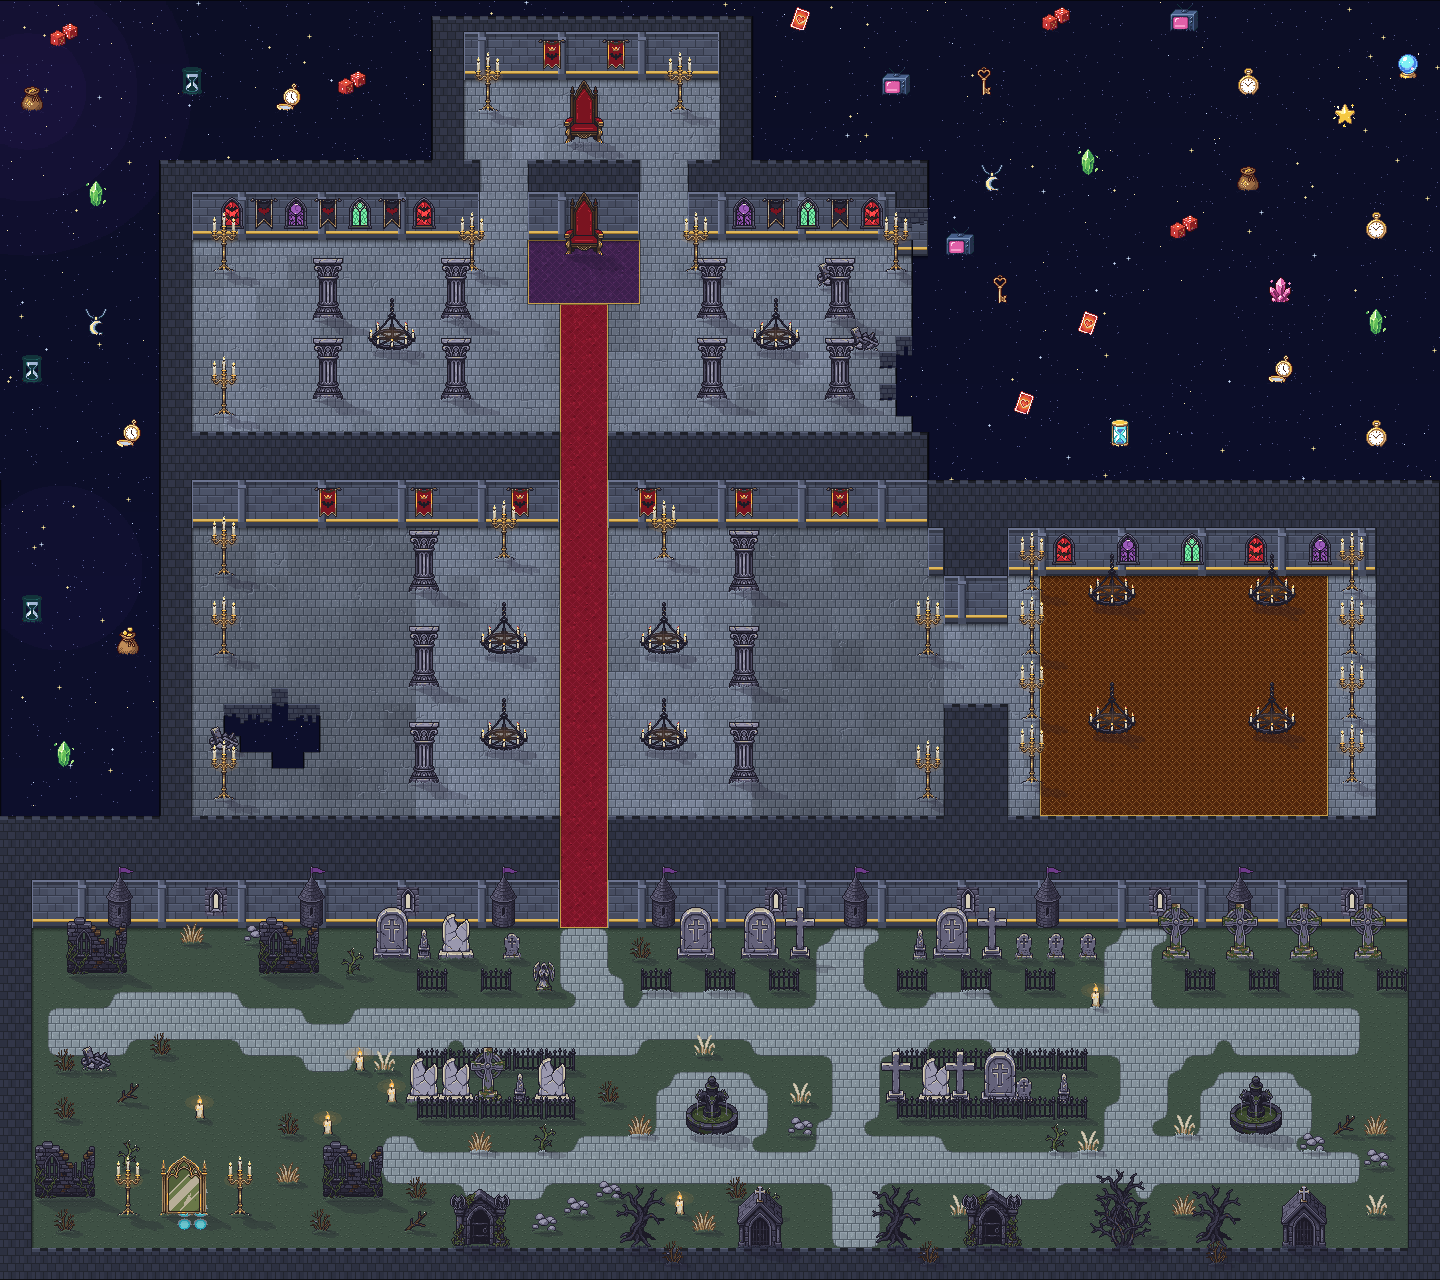
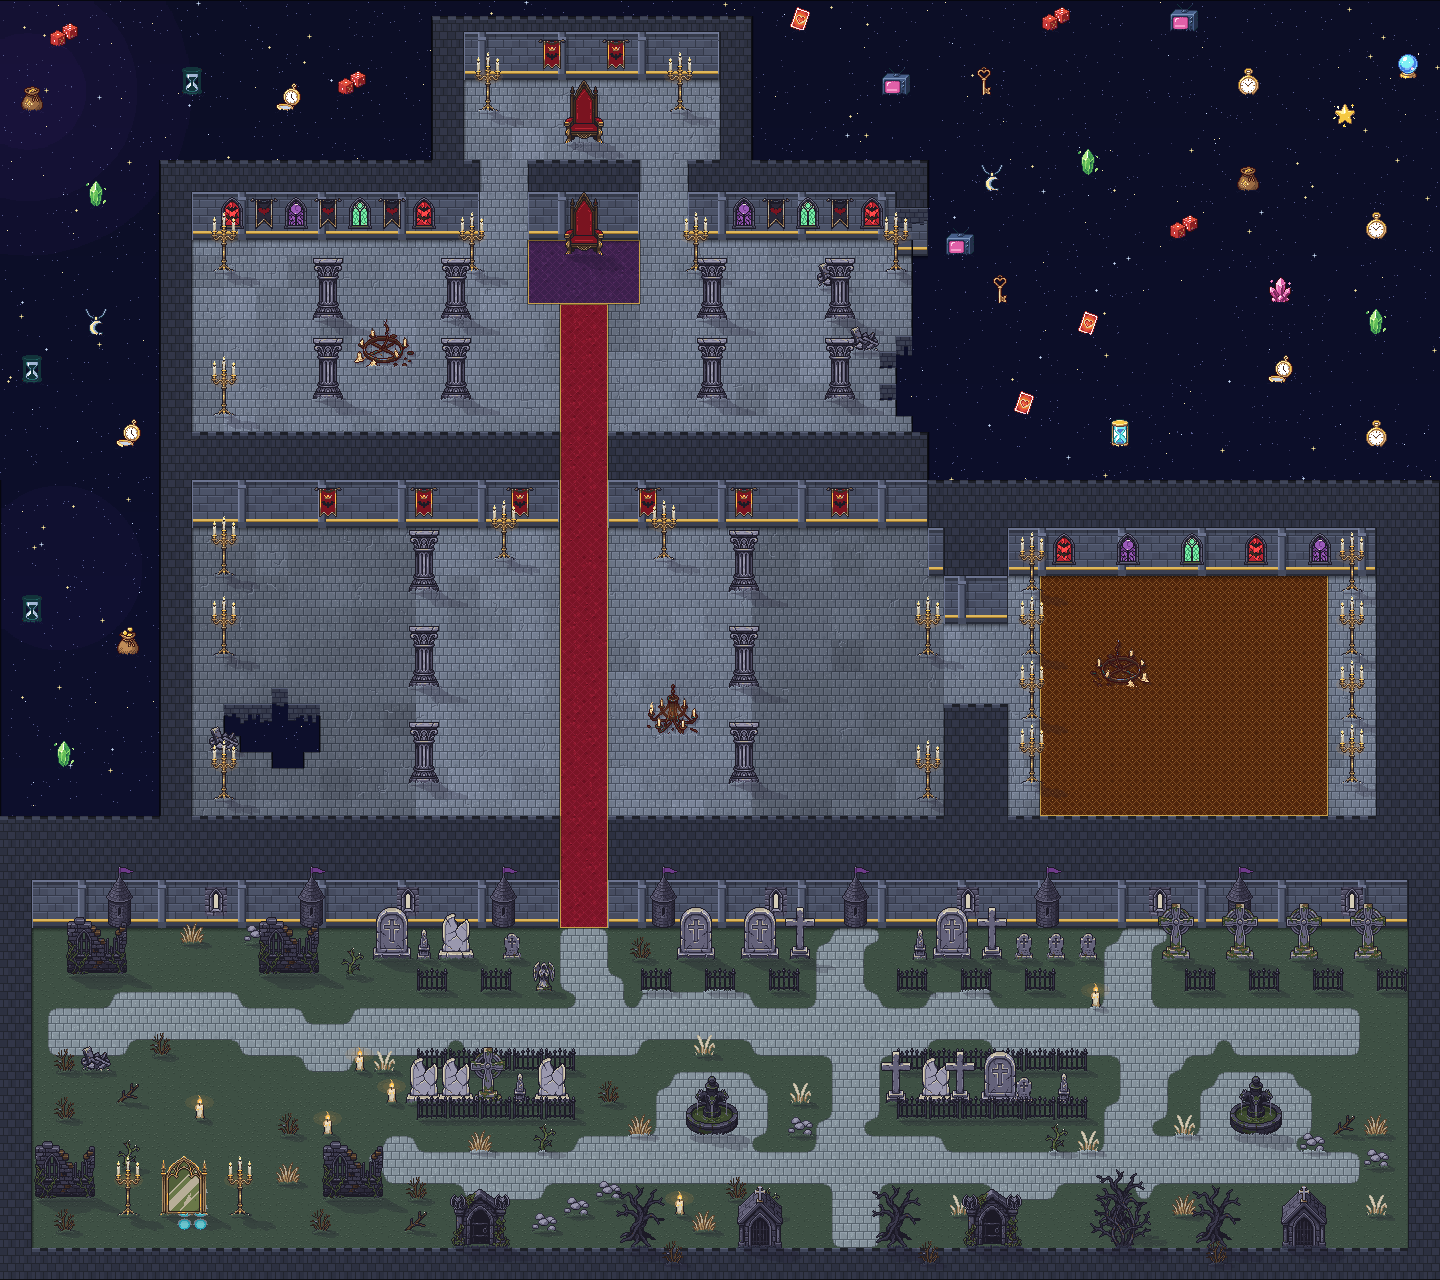
K32: Kronleuchter reduziert (10 -> 3) und als heruntergefallene, kaputte Leuchter am Boden (PixelLab k32_leuchter)
Claude-Session: https://claude.ai/code/session_01SaoYHKhnro4LFcPJqjaPsq

diff --git a/tools/karte32_objekte.py b/tools/karte32_objekte.py
@@ -132,7 +132,7 @@ def main():
     paar(K9 + 'moebel/00', 16 * T, fuss(19))
     paar(K9 + 'moebel/00', 8 * T, fuss(24))
     paar(K9 + 'moebel/00', 16 * T, fuss(24))
-    paar(K9 + 'einrichtung/14', 12 * T, fuss(21), {'anim': 'kerzen'})                # Kronleuchter
+    setze('karte32/leuchter/00', 24 * T + 8, fuss(22), {'liegend': True, 'versatz': 2})   # Nutzer: weniger Kronleuchter, kaputt am Boden
     paar(K9 + 'moebel/01', 7 * T, fuss(16), {'anim': 'kerzen'})                      # Kandelaber am Teppich
     for (x, y) in ((13, 16), (13, 25), (55, 16)):
         setze(K9 + 'moebel/01', x * T + 8, fuss(y), {'anim': 'kerzen'})
@@ -141,8 +141,7 @@ def main():
     # ------------------------------------------------------------------ Bannerhalle
     for y in (36, 42, 48):
         paar(K9 + 'moebel/00', 10 * T, fuss(y))                                     # Saeulenreihen (mit Luft)
-    for y in (40, 46):
-        paar(K9 + 'einrichtung/14', 5 * T, fuss(y), {'anim': 'kerzen'})
+    setze('karte32/leuchter/01', 42 * T + 8, fuss(45), {'liegend': True, 'versatz': 2, 'anim': 'kerzen'}, spiegeln=True)
     paar(K9 + 'moebel/01', 5 * T, fuss(34), {'anim': 'kerzen'})
     for (x, y) in ((13, 35), (13, 40), (13, 49), (57, 35), (57, 40), (57, 49)):
         setze(K9 + 'moebel/01', x * T + 8, fuss(y), {'anim': 'kerzen'})
@@ -150,8 +149,7 @@ def main():
         setze(K9 + 'wand/45', x * T + 8, fuss(y))
     # ------------------------------------------------------------------ Festsaal (Achse 74.5)
     FA = 74.5 * T
-    for y in (37, 45):
-        paar(K9 + 'einrichtung/14', 5 * T, fuss(y), {'anim': 'kerzen'}, achse=FA)
+    setze('karte32/leuchter/00', 70 * T + 8, fuss(42), {'liegend': True, 'versatz': 2}, spiegeln=True)
     for y in (36, 40, 44, 48):
         paar(K9 + 'moebel/01', 10 * T, fuss(y), {'anim': 'kerzen'}, achse=FA)
     # ------------------------------------------------------------------ Friedhof

diff --git a/tools/pixellab_objekte.py b/tools/pixellab_objekte.py
@@ -2031,6 +2031,10 @@ OBJEKTGRUPPEN_K21 = {   # Karte 21 (Digi-Egg Valley), Stil wie Karte 20 / Karte 
         'single floating playing card glowing orange and red, slightly tilted, classic 2D handheld RPG style, transparent background',
         'small oval hand mirror with a golden frame floating in space, classic 2D handheld RPG style, transparent background',
     ]},
+    'k32_leuchter': {'size': 64, 'items': [   # Nutzer: weniger Kronleuchter, kaputt auf dem Boden
+        'broken fallen black iron chandelier lying flat on a stone floor, bent ring, snapped chain, toppled candles and wax, a few scattered pieces, seen from above, classic 2D handheld RPG style, transparent background',
+        'crashed gothic wrought iron chandelier on the floor, ring cracked in two, candles knocked over with one still burning, small debris around, seen from above, classic 2D handheld RPG style, transparent background',
+    ]},
     'k31_muell': {'size': 32, 'items': [
         'small pile of fallen golden yellow ginkgo leaves lying flat on the ground, seen from above, classic 2D handheld RPG style',
         'small pile of fallen brown and orange autumn leaves lying flat on the ground, seen from above, classic 2D handheld RPG style',
